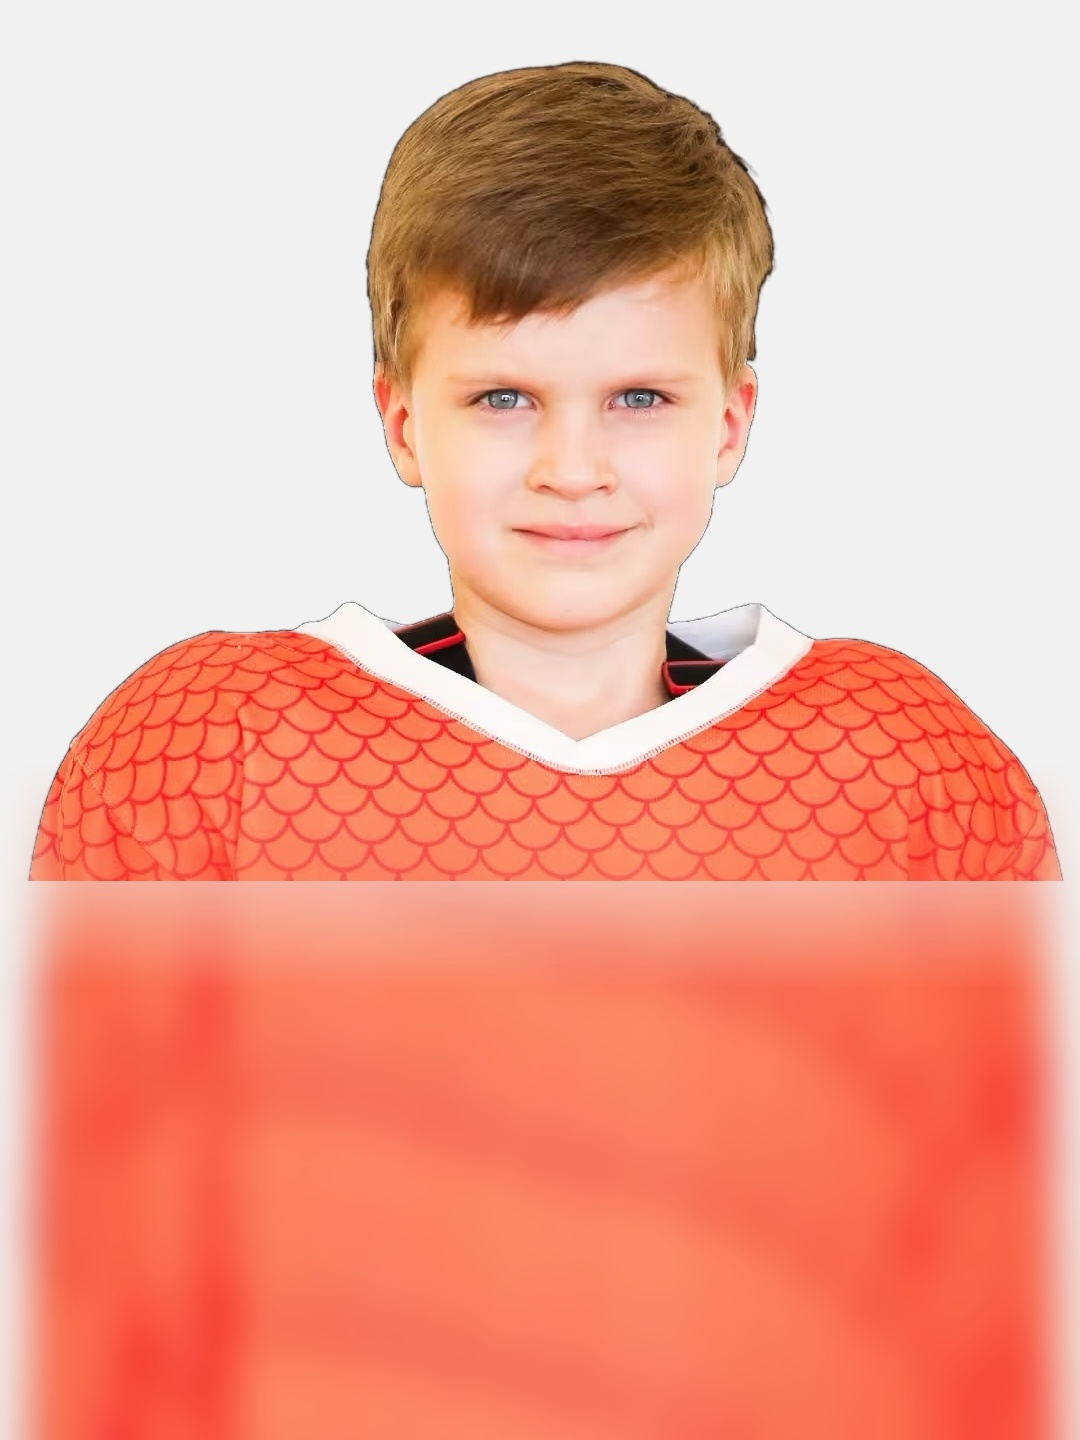
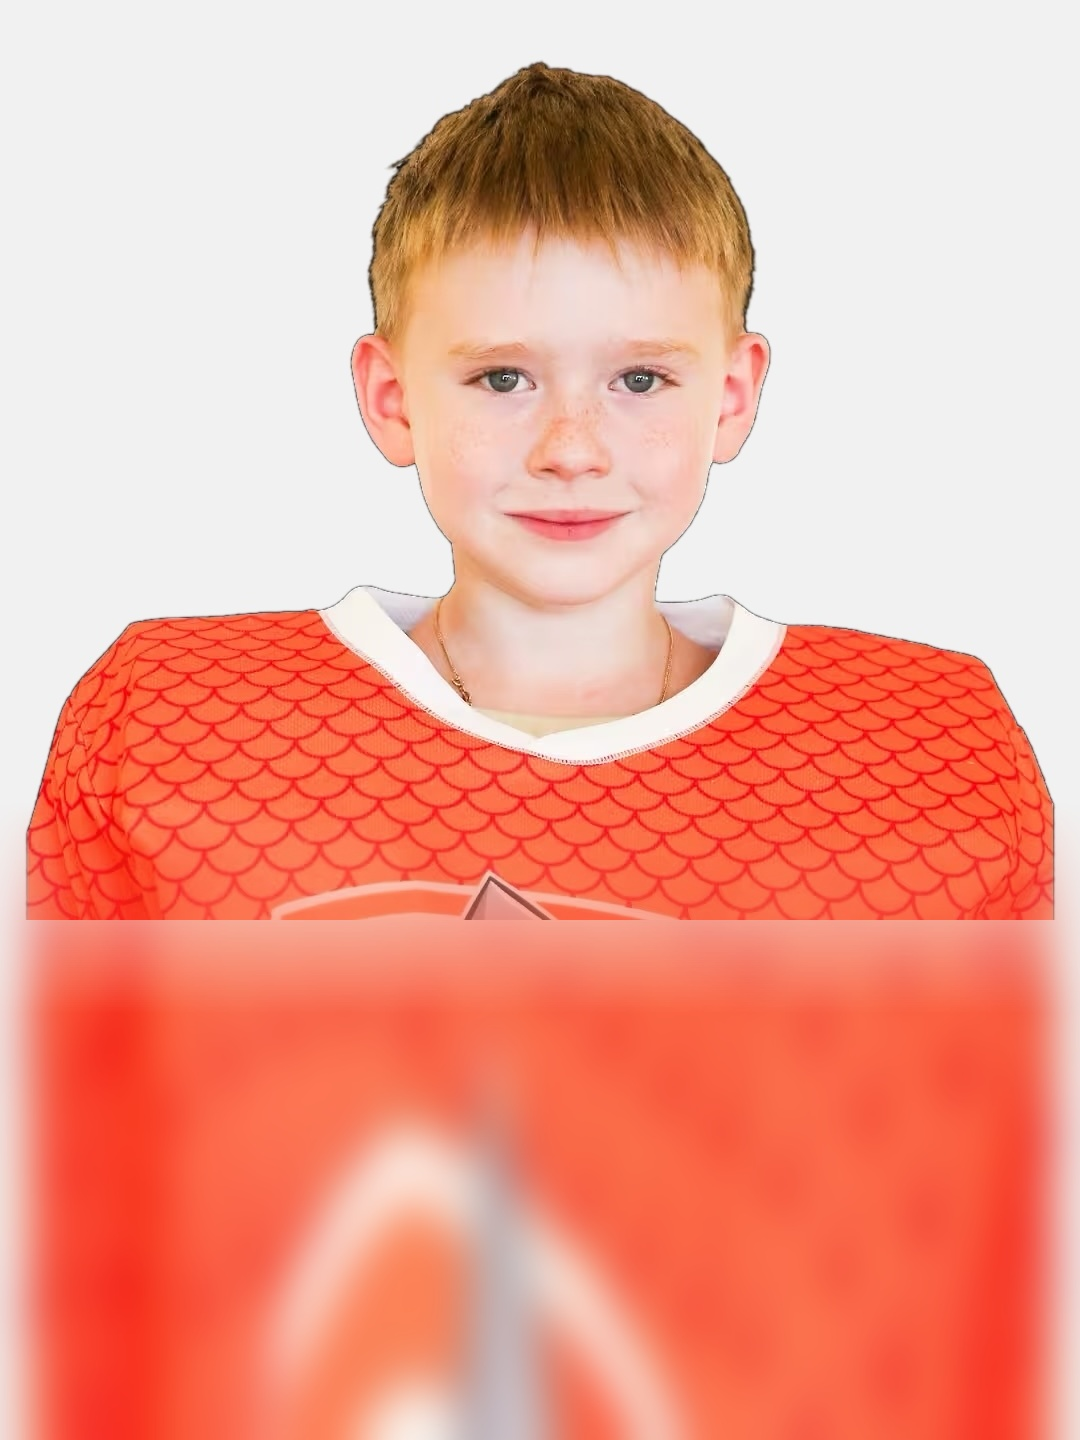
dobrynya: год 2017, QR HockeyStars, Советов/Боровиков по подписям; фото-крупный план на обороте карточки

diff --git a/print/album/lib/cards.js b/print/album/lib/cards.js
@@ -51,21 +51,28 @@ function cardCss(size) {
   repeating-linear-gradient(115deg, rgba(255,255,255,.05) 0 1.2mm, transparent 1.2mm 8mm),
   radial-gradient(ellipse at 50% 0%, rgba(255,255,255,.18), transparent 60%),
   linear-gradient(180deg,var(--primary),var(--dark));}
+/* Close-up of the face across the top of the back, pushed to the right so the header text sits on a dark fade. */
+.card.back .photo{position:absolute;left:0;right:0;top:0;height:${(B + 42 * s).toFixed(2)}mm;overflow:hidden;}
+.card.back .photo img{position:absolute;width:150%;height:auto;left:${(B + 2 * s).toFixed(2)}mm;top:${(B - 9 * s).toFixed(2)}mm;}
+.card.back.team .photo img,.card.back.club .photo img{width:100%;height:100%;left:0;top:0;object-fit:cover;object-position:center center;}
+.card.back .photo::after{content:"";position:absolute;inset:0;background:
+  linear-gradient(90deg,color-mix(in srgb,var(--primary) 96%,transparent) 0%,color-mix(in srgb,var(--primary) 88%,transparent) 30%,color-mix(in srgb,var(--primary) 35%,transparent) 55%,rgba(0,0,0,.05) 80%),
+  linear-gradient(180deg,rgba(0,0,0,0) 72%,var(--primary) 100%);}
 .card.back .band{position:absolute;left:-10mm;right:-10mm;height:${mm(7)};transform:rotate(-8deg);}
-.card.back .band.top{top:${(B + 15 * s).toFixed(2)}mm;background:var(--secondary);opacity:.95;}
-.card.back .band.top2{top:${(B + 21 * s).toFixed(2)}mm;height:${mm(1.5)};background:#fff;opacity:.5;}
+.card.back .band.top{top:${(B + 41.5 * s).toFixed(2)}mm;height:${mm(4)};background:var(--secondary);opacity:.95;}
+.card.back .band.top2{display:none;top:${(B + 29.5 * s).toFixed(2)}mm;height:${mm(1.5)};background:#fff;opacity:.5;}
 .card.back .head{position:absolute;left:${pad}mm;right:${pad}mm;top:${(B + 3.5 * s).toFixed(2)}mm;display:flex;align-items:center;gap:${mm(2.5)};}
 .card.back .head img{width:${mm(10)};height:${mm(10)};object-fit:contain;}
 .card.back .head .t{font-family:'Oswald';font-weight:700;text-transform:uppercase;font-size:${mm(4)};line-height:1.05;}
 .card.back .head .t small{display:block;font-family:'Roboto';font-weight:400;text-transform:none;font-size:${mm(2.4)};opacity:.8;margin-top:.6mm;}
-.card.back .bignum{position:absolute;right:${(B + 3 * s).toFixed(2)}mm;top:${(B + 24 * s).toFixed(2)}mm;font-family:'Oswald';font-weight:700;font-size:${mm(30)};line-height:1;color:rgba(255,255,255,.08);}
-.card.back .who{position:absolute;left:${pad}mm;right:${pad}mm;top:${(B + 27 * s).toFixed(2)}mm;}
-.card.back .who .nm{font-family:'Oswald';font-weight:700;text-transform:uppercase;font-size:${mm(5.4)};line-height:1.05;}
+.card.back .bignum{position:absolute;right:${(B + 3 * s).toFixed(2)}mm;top:${(B + 44 * s).toFixed(2)}mm;font-family:'Oswald';font-weight:700;font-size:${mm(30)};line-height:1;color:rgba(255,255,255,.08);}
+.card.back .who{position:absolute;left:${pad}mm;right:${pad}mm;top:${(B + 29 * s).toFixed(2)}mm;}
+.card.back .who .nm{font-family:'Oswald';font-weight:700;text-transform:uppercase;font-size:${mm(5.4)};line-height:1.05;text-shadow:0 0 1.5mm rgba(0,0,0,.9),0 .4mm 1mm rgba(0,0,0,.7);}
 .card.back .who .nm span{color:var(--accent);margin-right:1.5mm;}
 .card.back .who .nm sup{font-size:50%;vertical-align:top;position:relative;top:${mm(0.6)};}
 .card.back .who .pos{font-family:'Roboto';font-weight:500;font-size:${mm(2.7)};letter-spacing:.14em;text-transform:uppercase;color:rgba(255,255,255,.85);margin-top:1.2mm;}
-.card.back table{position:absolute;left:${pad}mm;right:${pad}mm;top:${(B + 41 * s).toFixed(2)}mm;width:calc(100% - ${pad * 2}mm);border-collapse:collapse;font-size:${mm(2.9)};}
-.card.back td{padding:${mm(1.1)} 0;border-bottom:.2mm solid rgba(255,255,255,.18);line-height:1.15;}
+.card.back table{position:absolute;left:${pad}mm;right:${pad}mm;top:${(B + 47.5 * s).toFixed(2)}mm;width:calc(100% - ${pad * 2}mm);border-collapse:collapse;font-size:${mm(2.9)};}
+.card.back td{padding:${mm(0.7)} 0;border-bottom:.2mm solid rgba(255,255,255,.18);line-height:1.15;}
 .card.back td:first-child{font-family:'Roboto';font-weight:400;text-transform:uppercase;letter-spacing:.1em;font-size:${mm(2.4)};color:rgba(255,255,255,.7);}
 .card.back td:last-child{text-align:right;font-family:'Oswald';font-weight:600;font-size:${mm(3.6)};}
 .card.back .foot{position:absolute;left:${pad}mm;right:${pad}mm;bottom:${(B + 3.5 * s).toFixed(2)}mm;display:flex;align-items:center;justify-content:space-between;}
@@ -136,8 +143,9 @@ function cardBack(card, data) {
   const longest = Math.max((card.number ? card.number.length + 2 : 0) + card.surname.length, card.name.length);
   const scale = data.cardSize.w / 63.5;
   const nameSize = `${(5.4 * scale * Math.min(1, 16 / Math.max(longest, 1))).toFixed(2)}mm`;
-  return `<div class="card back">
+  return `<div class="card back ${card.type}">
     <div class="bg"></div>
+    ${card.hasPhoto ? `<div class="photo"><img src="${card.photo}"></div>` : ''}
     <div class="band top"></div><div class="band top2"></div>
     <div class="head">${logo}<div class="t">${esc(t.name)}<small>${esc(t.city || '')}${t.city ? ' · ' : ''}Сезон ${esc(t.season)}</small></div></div>
     ${card.number ? `<div class="bignum">${esc(card.number)}</div>` : ''}

diff --git a/print/album/lib/album.js b/print/album/lib/album.js
@@ -67,7 +67,7 @@ ${cardCss(size)}
 .cover .count span{font-family:'Oswald';font-weight:600;text-transform:uppercase;font-size:4.6mm;letter-spacing:.08em;margin-top:1mm;}
 .cover .year{position:absolute;right:${bleed + 8}mm;bottom:${bleed + 14}mm;font-family:'Oswald';font-weight:700;font-size:52mm;line-height:.85;color:#fff;
   text-shadow:0 1.5mm 3mm rgba(0,0,0,.45);letter-spacing:-.01em;}
-.cover .brand{position:absolute;right:${bleed + 10}mm;bottom:${bleed + 6}mm;display:flex;align-items:center;gap:2mm;}
+.cover .brand{position:absolute;left:${bleed + 12}mm;bottom:${bleed + 6}mm;display:flex;align-items:center;gap:2mm;}
 .cover .brand img{height:7mm;filter:drop-shadow(0 .5mm 1mm rgba(0,0,0,.5));}
 .cover .teamname{position:absolute;left:${bleed + 8}mm;top:${bleed + 66}mm;font-family:'Oswald';font-weight:700;text-transform:uppercase;font-size:11mm;line-height:1;color:#fff;
   text-shadow:0 1mm 2.5mm rgba(0,0,0,.55);}
